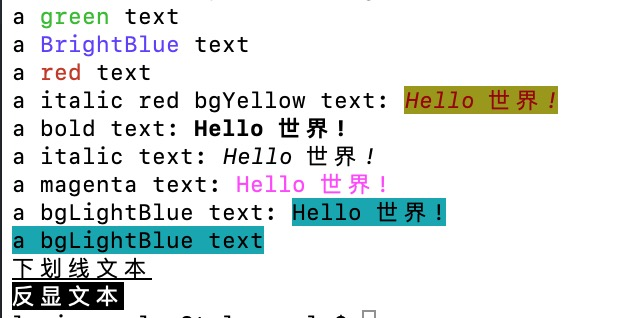
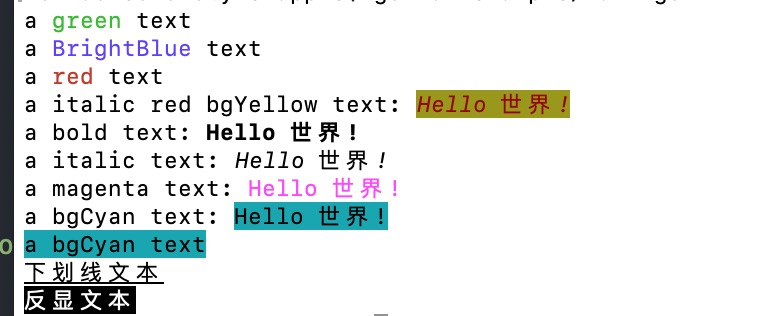
update

diff --git a/example_color_style_test.go b/example_color_style_test.go
@@ -1,67 +1,67 @@
-package colorStyle_test
+package colorstyle_test
 
 import (
 	"fmt"
 
-	"github.com/flylog/colorStyle"
+	"github.com/flylog/colorstyle"
 )
 
 func Example() {
-	text := colorStyle.Green("green")
+	text := colorstyle.Green("green")
 	fmt.Printf("a %s text\n", text)
 
-	text = colorStyle.Blue("Blue")
+	text = colorstyle.Blue("Blue")
 	fmt.Printf("a %s text\n", text)
 
-	text = colorStyle.New().ColorRed().Sprint("red")
+	text = colorstyle.New().ColorRed().Sprint("red")
 	fmt.Println("a", text, "text")
 
-	colorStyle.New().StyleItalic().ColorRed().BgYellow().Printf("a italic red bgYellow text: %s\n", "Hello 世界!")
-	colorStyle.New().StyleBold().Printf("a bold text: %s\n", "Hello 世界!")
-	colorStyle.New().StyleItalic().Printf("a italic text: %s\n", "Hello 世界!")
-	colorStyle.New().ColorMagenta().Printf("a magenta text: %s\n", "Hello 世界!")
-	colorStyle.New().BgCyan().Printf("a  background color cyan text: %s\n", "Hello 世界!")
-	colorStyle.New().BgCyan().Println("a background color cyan text")
+	colorstyle.New().StyleItalic().ColorRed().BgYellow().Printf("a italic red bgYellow text: %s\n", "Hello 世界!")
+	colorstyle.New().StyleBold().Printf("a bold text: %s\n", "Hello 世界!")
+	colorstyle.New().StyleItalic().Printf("a italic text: %s\n", "Hello 世界!")
+	colorstyle.New().ColorMagenta().Printf("a magenta text: %s\n", "Hello 世界!")
+	colorstyle.New().BgCyan().Printf("a  background color cyan text: %s\n", "Hello 世界!")
+	colorstyle.New().BgCyan().Println("a background color cyan text")
 
-	css := colorStyle.New()
+	css := colorstyle.New()
 	css.StyleStrikethrough().Println("删除线文本")
 	css.StyleUnderline().Println("下划线文本")
 	css.StyleReverse().Println("反显文本")
 }
 
 func ExampleGreen() {
-	text := colorStyle.Green("green")
+	text := colorstyle.Green("green")
 	fmt.Printf("a %s text\n", text)
 }
 
 func ExampleBlue() {
-	text := colorStyle.Blue("Blue")
+	text := colorstyle.Blue("Blue")
 	fmt.Printf("a %s text\n", text)
 }
 
 func ExampleNew() {
-	css := colorStyle.New()
+	css := colorstyle.New()
 	css.StyleItalic().ColorGreen().BgYellow()
 	css.Printf("a italic green bgYellow text: %s\n", "Hello 世界!")
 }
 
 func ExampleCSS_StyleBold() {
-	colorStyle.New().StyleBold().Printf("a bold text: %s\n", "Hello 世界!")
+	colorstyle.New().StyleBold().Printf("a bold text: %s\n", "Hello 世界!")
 	// or
-	css := colorStyle.New().StyleBold()
+	css := colorstyle.New().StyleBold()
 	css.Printf("a bold text: %s\n", "Hello 世界!")
 
 }
 
 func ExampleCSS_ColorRed() {
-	colorStyle.New().ColorRed().Printf("a bold text: %s\n", "Hello 世界!")
+	colorstyle.New().ColorRed().Printf("a bold text: %s\n", "Hello 世界!")
 
 }
 
 func ExampleCSS_Printf() {
-	colorStyle.New().ColorRed().Printf("a bold text: %s\n", "Hello 世界!")
+	colorstyle.New().ColorRed().Printf("a bold text: %s\n", "Hello 世界!")
 }
 
 func ExampleCSS_Println() {
-	colorStyle.New().BgBlue().Println("a background color blue text")
+	colorstyle.New().BgBlue().Println("a background color blue text")
 }

diff --git a/example/main.go b/example/main.go
@@ -3,27 +3,26 @@ package main
 import (
 	"fmt"
 
-	"github.com/flylog/colorStyle"
+	"github.com/flylog/colorstyle"
 )
 
 func main() {
-	text := colorStyle.Green("green")
+	text := colorstyle.Green("green")
 	fmt.Printf("a %s text\n", text)
 
-	text = colorStyle.BrightBlue("BrightBlue")
+	text = colorstyle.BrightBlue("BrightBlue")
 	fmt.Printf("a %s text\n", text)
 
-	text = colorStyle.New().ColorRed().Sprint("red")
+	text = colorstyle.New().ColorRed().Sprint("red")
 	fmt.Println("a", text, "text")
+	colorstyle.New().StyleItalic().ColorRed().BgYellow().Printf("a italic red bgYellow text: %s\n", "Hello 世界!")
+	colorstyle.New().StyleBold().Printf("a bold text: %s\n", "Hello 世界!")
+	colorstyle.New().StyleItalic().Printf("a italic text: %s\n", "Hello 世界!")
+	colorstyle.New().ColorBrightMagenta().Printf("a magenta text: %s\n", "Hello 世界!")
+	colorstyle.New().BgCyan().Printf("a bgCyan text: %s\n", "Hello 世界!")
+	colorstyle.New().BgCyan().Println("a bgCyan text")
 
-	colorStyle.New().StyleItalic().ColorRed().BgYellow().Printf("a italic red bgYellow text: %s\n", "Hello 世界!")
-	colorStyle.New().StyleBold().Printf("a bold text: %s\n", "Hello 世界!")
-	colorStyle.New().StyleItalic().Printf("a italic text: %s\n", "Hello 世界!")
-	colorStyle.New().ColorBrightMagenta().Printf("a magenta text: %s\n", "Hello 世界!")
-	colorStyle.New().BgCyan().Printf("a bgLightBlue text: %s\n", "Hello 世界!")
-	colorStyle.New().BgCyan().Println("a bgLightBlue text")
-
-	css := colorStyle.New()
+	css := colorstyle.New()
 	css.StyleUnderline().Println("下划线文本")
 	css.StyleReverse().Println("反显文本")
 

diff --git a/doc.go b/doc.go
@@ -5,4 +5,4 @@ Used to modify the style of text for standard output to the terminal interface, 
 ColorStyle 是一个用于命令行文本的样式库。
 用于标准输出到终端界面的文本的样式修改，可以修改文本前景色，背景色，增加下划线和加粗显等。
 */
-package colorStyle
+package colorstyle

diff --git a/bg_color.go b/bg_color.go
@@ -1,4 +1,4 @@
-package colorStyle
+package colorstyle
 
 import "strconv"
 

diff --git a/color.go b/color.go
@@ -1,4 +1,4 @@
-package colorStyle
+package colorstyle
 
 import "strconv"
 

diff --git a/css.go b/css.go
@@ -1,4 +1,4 @@
-package colorStyle
+package colorstyle
 
 import (
 	"bytes"

diff --git a/style.go b/style.go
@@ -1,4 +1,4 @@
-package colorStyle
+package colorstyle
 
 import "strconv"
 

diff --git a/README.md b/README.md
@@ -11,43 +11,42 @@ See this document at [GoDoc](https://pkg.go.dev/github.com/flylog/colorStyle)
 
 # Install
     
-    go get -u github.com/flylog/colorStyle@latest
+    go get -u github.com/flylog/colorstyle@latest
 
 
 # Example
 
-```GO
-
+```
 package main
 
 import (
 	"fmt"
 
-	"github.com/flylog/colorStyle"
+	"github.com/flylog/colorstyle"
 )
 
 func main() {
-	text := colorStyle.Green("green")
+	text := colorstyle.Green("green")
 	fmt.Printf("a %s text\n", text)
 
-	text = colorStyle.BrightBlue("BrightBlue")
+	text = colorstyle.BrightBlue("BrightBlue")
 	fmt.Printf("a %s text\n", text)
 
-	text = colorStyle.New().ColorRed().Sprint("red")
+	text = colorstyle.New().ColorRed().Sprint("red")
 	fmt.Println("a", text, "text")
+	colorstyle.New().StyleItalic().ColorRed().BgYellow().Printf("a italic red bgYellow text: %s\n", "Hello 世界!")
+	colorstyle.New().StyleBold().Printf("a bold text: %s\n", "Hello 世界!")
+	colorstyle.New().StyleItalic().Printf("a italic text: %s\n", "Hello 世界!")
+	colorstyle.New().ColorBrightMagenta().Printf("a magenta text: %s\n", "Hello 世界!")
+	colorstyle.New().BgCyan().Printf("a bgCyan text: %s\n", "Hello 世界!")
+	colorstyle.New().BgCyan().Println("a bgCyan text")
 
-	colorStyle.New().StyleItalic().ColorRed().BgYellow().Printf("a italic red bgYellow text: %s\n", "Hello 世界!")
-	colorStyle.New().StyleBold().Printf("a bold text: %s\n", "Hello 世界!")
-	colorStyle.New().StyleItalic().Printf("a italic text: %s\n", "Hello 世界!")
-	colorStyle.New().ColorBrightMagenta().Printf("a magenta text: %s\n", "Hello 世界!")
-	colorStyle.New().BgCyan().Printf("a bgLightBlue text: %s\n", "Hello 世界!")
-	colorStyle.New().BgCyan().Println("a bgLightBlue text")
-
-	css := colorStyle.New()
+	css := colorstyle.New()
 	css.StyleUnderline().Println("下划线文本")
 	css.StyleReverse().Println("反显文本")
 
 }
+
 ```
 output:
 
